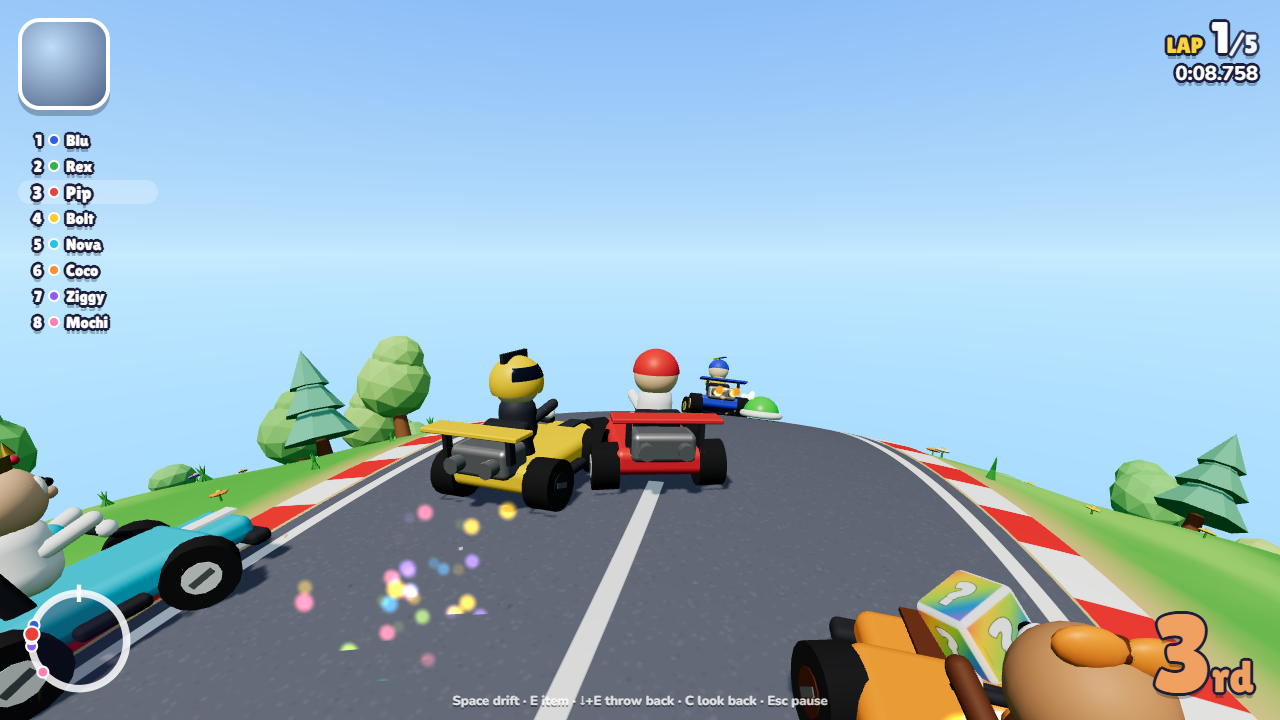
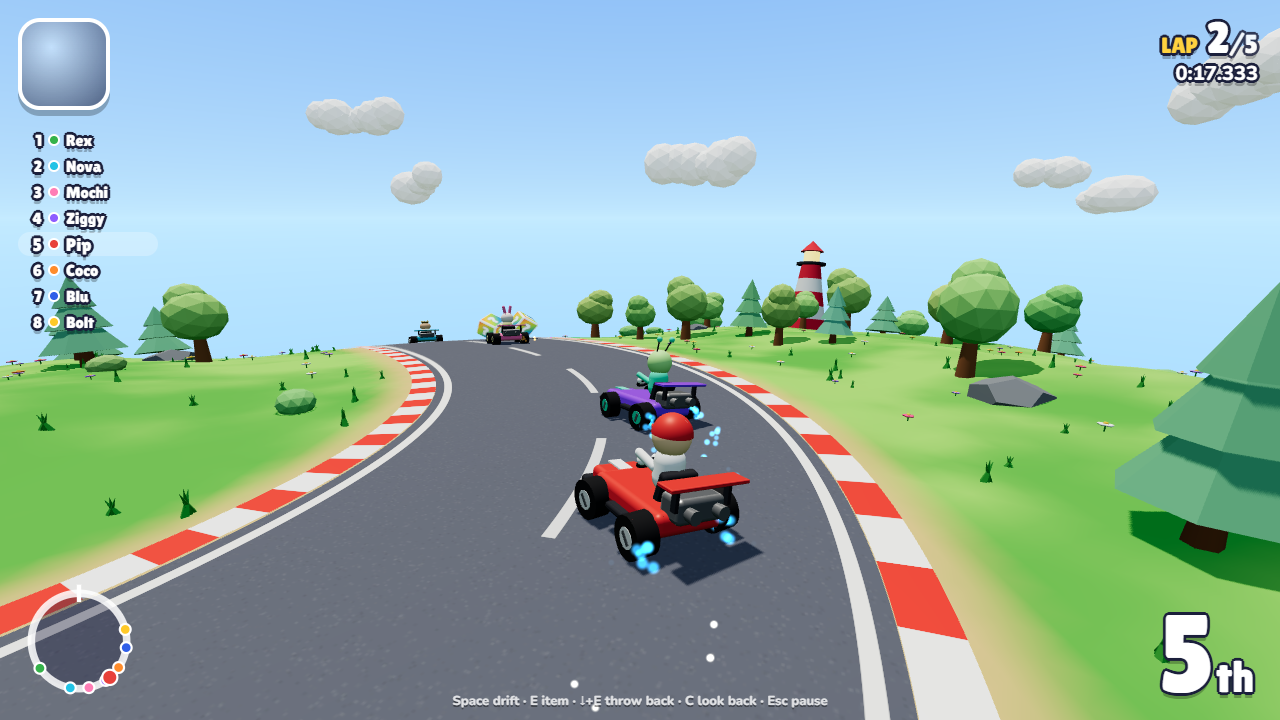
Unroll the planet around the player so you can see the road ahead
On a radius-28 planet a chase camera could only see ~13 units of ground,
about half a second at racing speed. The simulation still runs on the tiny
planet, but while racing a vertex shader remaps the world onto a sphere 7x
larger that touches the real one under the player, preserving distances along
the ground. Normals are rotated to match, far-side geometry is sunk below the
horizon, and shadows stay in true space so they remain attached. The camera
sits a little higher and further back, and the intro blends from the tiny
planet into the unrolled view.

diff --git a/src/render/WorldBend.ts b/src/render/WorldBend.ts
@@ -1,0 +1,171 @@
+import * as THREE from 'three';
+
+/**
+ * "Unrolls" the tiny planet around the player at render time.
+ *
+ * A planet this small curves away so quickly that a chase camera sees only a few metres of road.
+ * The simulation stays on the real, tiny sphere; only the vertex shader remaps every point onto a
+ * sphere `factor` times larger, touching the real one at `anchor`. Distances along the ground are
+ * preserved (a point s metres away stays s metres away), so the road simply curves `factor` times
+ * more gently. Far-side geometry, which would otherwise be stretched around the antipode, is sunk
+ * out of sight well beyond the horizon.
+ *
+ * Shadow maps are rendered with three's internal depth materials, which are not patched, so
+ * shadows are computed in true space and looked up with the true world position: they stay glued
+ * to the objects that cast them.
+ */
+export class WorldBend {
+  readonly uniforms = {
+    bendAnchor: { value: new THREE.Vector3(0, 1, 0) },
+    bendRadius: { value: 1 },
+    bendFactor: { value: 1 },
+  };
+  private readonly patched = new WeakSet<THREE.Material>();
+
+  constructor(radius: number) {
+    this.uniforms.bendRadius.value = radius;
+  }
+
+  get factor(): number {
+    return this.uniforms.bendFactor.value;
+  }
+
+  set factor(value: number) {
+    this.uniforms.bendFactor.value = Math.max(1, value);
+  }
+
+  get anchor(): THREE.Vector3 {
+    return this.uniforms.bendAnchor.value;
+  }
+
+  /**
+   * Patches every material in the scene that hasn't been patched yet. Bent objects can appear
+   * where their true bounds say they're off-screen, so frustum culling is disabled for them.
+   */
+  apply(root: THREE.Object3D): void {
+    root.traverse((object) => {
+      if (object.userData.noBend) return;
+      const material = (object as THREE.Mesh).material as THREE.Material | THREE.Material[] | undefined;
+      if (!material) return;
+      object.frustumCulled = false;
+      for (const m of Array.isArray(material) ? material : [material]) this.patch(m);
+    });
+  }
+
+  /** CPU version of the shader warp, for placing the camera in bent space. */
+  bendPoint(p: THREE.Vector3, out: THREE.Vector3): THREE.Vector3 {
+    const u = this.anchor;
+    const R = this.uniforms.bendRadius.value;
+    const k = this.factor;
+    const r = p.length();
+    if (k <= 1.0001 || r < 1e-6) return out.copy(p);
+    const n = tmpN.copy(p).divideScalar(r);
+    const sinPhi = tmpC.crossVectors(n, u).length();
+    const phi = Math.atan2(sinPhi, n.dot(u));
+    const tangent = tmpT.copy(n).addScaledVector(u, -Math.cos(phi));
+    if (tangent.lengthSq() < 1e-12) tangent.set(0, 0, 0);
+    else tangent.normalize();
+    const bentRadius = R * k;
+    const bentPhi = phi / k;
+    const height = r - R;
+    return out
+      .copy(u)
+      .multiplyScalar(R - bentRadius)
+      .addScaledVector(u, Math.cos(bentPhi) * (bentRadius + height))
+      .addScaledVector(tangent, Math.sin(bentPhi) * (bentRadius + height));
+  }
+
+  private patch(material: THREE.Material): void {
+    if (this.patched.has(material)) return;
+    this.patched.add(material);
+    if (material instanceof THREE.ShaderMaterial) {
+      // Custom shaders opt in by calling bendPoint() themselves (see Particles).
+      if (material.userData.bendable) Object.assign(material.uniforms, this.uniforms);
+      return;
+    }
+    const previous = material.onBeforeCompile;
+    material.onBeforeCompile = (shader, renderer) => {
+      previous.call(material, shader, renderer);
+      Object.assign(shader.uniforms, this.uniforms);
+      shader.vertexShader = BEND_GLSL + '\n' + shader.vertexShader
+        .replace('#include <defaultnormal_vertex>', `#include <defaultnormal_vertex>\n${BEND_NORMAL}`)
+        .replace('#include <project_vertex>', BEND_PROJECT);
+    };
+    const key = material.customProgramCacheKey.bind(material);
+    material.customProgramCacheKey = () => `${key()}|bend`;
+    material.needsUpdate = true;
+  }
+}
+
+const tmpN = new THREE.Vector3();
+const tmpC = new THREE.Vector3();
+const tmpT = new THREE.Vector3();
+
+/** Shared GLSL: warp a world-space point, and rotate a world-space direction to match. */
+export const BEND_GLSL = /* glsl */ `
+  uniform vec3 bendAnchor;
+  uniform float bendRadius;
+  uniform float bendFactor;
+
+  // Returns the bent point; writes the rotation axis/angle that carries directions along.
+  vec3 bendPointFull(vec3 p, out vec3 axis, out float delta) {
+    axis = vec3(0.0);
+    delta = 0.0;
+    float r = length(p);
+    if (bendFactor <= 1.0001 || r < 1e-5) return p;
+    vec3 n = p / r;
+    vec3 u = bendAnchor;
+    vec3 c = cross(u, n);
+    float phi = atan(length(c), dot(n, u));
+    vec3 t = n - u * cos(phi);
+    float tl = length(t);
+    t = tl > 1e-6 ? t / tl : vec3(0.0);
+    float bentRadius = bendRadius * bendFactor;
+    float bentPhi = phi / bendFactor;
+    // Sink the far side of the planet out of sight instead of smearing it around the antipode.
+    float height = mix(r - bendRadius, -bendRadius, smoothstep(2.1, 2.7, phi));
+    axis = length(c) > 1e-6 ? normalize(c) : vec3(0.0);
+    delta = bentPhi - phi;
+    return u * (bendRadius - bentRadius) + (u * cos(bentPhi) + t * sin(bentPhi)) * (bentRadius + height);
+  }
+
+  vec3 bendPoint(vec3 p) {
+    vec3 axis;
+    float delta;
+    return bendPointFull(p, axis, delta);
+  }
+
+  vec3 bendRotate(vec3 v, vec3 axis, float angle) {
+    // Rodrigues' rotation formula.
+    float c = cos(angle);
+    float s = sin(angle);
+    return v * c + cross(axis, v) * s + axis * dot(axis, v) * (1.0 - c);
+  }
+`;
+
+const BEND_NORMAL = /* glsl */ `
+  {
+    vec4 bendLocal = vec4(position, 1.0);
+    #ifdef USE_INSTANCING
+      bendLocal = instanceMatrix * bendLocal;
+    #endif
+    vec3 bendAxis;
+    float bendDelta;
+    bendPointFull((modelMatrix * bendLocal).xyz, bendAxis, bendDelta);
+    mat3 viewRotation = mat3(viewMatrix);
+    vec3 worldNormal = transpose(viewRotation) * transformedNormal;
+    transformedNormal = viewRotation * bendRotate(worldNormal, bendAxis, bendDelta);
+  }
+`;
+
+const BEND_PROJECT = /* glsl */ `
+  vec4 mvPosition = vec4(transformed, 1.0);
+  #ifdef USE_BATCHING
+    mvPosition = batchingMatrix * mvPosition;
+  #endif
+  #ifdef USE_INSTANCING
+    mvPosition = instanceMatrix * mvPosition;
+  #endif
+  mvPosition = viewMatrix * vec4(bendPoint((modelMatrix * mvPosition).xyz), 1.0);
+  gl_Position = projectionMatrix * mvPosition;
+`;

diff --git a/src/game/Game.ts b/src/game/Game.ts
@@ -7,6 +7,7 @@ import { ItemModels } from '../render/itemModels';
 import { renderPortraits } from '../render/portraits';
 import { RaceView } from '../render/RaceView';
 import { Sky } from '../render/Sky';
+import { WorldBend } from '../render/WorldBend';
 import { WorldView } from '../render/WorldView';
 import { CHARACTERS } from '../sim/characters';
 import type { RaceEvent } from '../sim/events';
@@ -21,6 +22,8 @@ type Mode = 'menu' | 'intro' | 'racing' | 'paused' | 'finishing' | 'results';
 const MAX_STEPS_PER_FRAME = 8;
 const FINISH_CELEBRATION = 3.5;
 const WRONG_WAY_DELAY = 1.2;
+/** How much flatter the planet looks while racing (see WorldBend). */
+const RACING_BEND = 7;
 
 const tmpDir = new THREE.Vector3();
 const tmpSide = new THREE.Vector3();
@@ -35,6 +38,7 @@ export class Game {
   private readonly sun = new THREE.DirectionalLight(0xfff4e0, 2.6);
   private readonly hemisphere = new THREE.HemisphereLight(0xcfeaff, 0x4d7a35, 1.3);
   private readonly circuit: Circuit;
+  private readonly bend: WorldBend;
   private readonly worldView: WorldView;
   private readonly itemModels = new ItemModels();
   private readonly input = new Input(window);
@@ -68,7 +72,8 @@ export class Game {
     container.appendChild(this.renderer.domElement);
 
     this.circuit = createCircuit();
-    this.rig = new CameraRig(window.innerWidth / window.innerHeight, this.circuit.track.radius);
+    this.bend = new WorldBend(this.circuit.track.radius);
+    this.rig = new CameraRig(window.innerWidth / window.innerHeight, this.circuit.track.radius, this.bend);
     this.worldView = new WorldView(this.circuit);
     this.scene.add(this.sky.mesh, this.worldView.group, this.hemisphere, this.sun, this.sun.target);
     this.sun.castShadow = true;
@@ -110,7 +115,9 @@ export class Game {
     if (this.input.wasPressed('mute')) this.audio.toggleMute();
 
     this.updateMode(dt);
+    this.updateBend();
     this.updateViews(dt);
+    this.bend.apply(this.scene);
     this.renderer.render(this.scene, this.rig.camera);
     this.input.endFrame();
   }
@@ -228,6 +235,18 @@ export class Game {
       default:
         break;
     }
+  }
+
+  /** Tiny planet in the menu; unrolled around the player while racing, blending in during the fly-in. */
+  private updateBend(): void {
+    const player = this.race.player;
+    if (!player || this.mode === 'menu') {
+      this.bend.factor = 1;
+      return;
+    }
+    const t = this.rig.introProgress;
+    this.bend.factor = 1 + (RACING_BEND - 1) * t * t;
+    this.bend.anchor.copy(player.up);
   }
 
   private updateViews(dt: number): void {

diff --git a/src/render/CameraRig.ts b/src/render/CameraRig.ts
@@ -1,12 +1,13 @@
 import * as THREE from 'three';
 import { clamp, damp, dampVector } from '../core/math';
 import type { Kart } from '../sim/Kart';
+import type { WorldBend } from './WorldBend';
 
 export type CameraMode = 'orbit' | 'chase' | 'intro' | 'finish';
 
-const CHASE_DISTANCE = 6.4;
-const CHASE_HEIGHT = 2.9;
-const LOOK_AHEAD = 3.5;
+const CHASE_DISTANCE = 7.2;
+const CHASE_HEIGHT = 3.4;
+const LOOK_AHEAD = 5;
 const BASE_FOV = 68;
 const INTRO_DURATION = 3;
 
@@ -15,6 +16,7 @@ const tmpLook = new THREE.Vector3();
 const tmpUp = new THREE.Vector3();
 const tmpForward = new THREE.Vector3();
 const tmpRight = new THREE.Vector3();
+const tmpBent = new THREE.Vector3();
 
 /**
  * Drives the camera: a slow planet orbit for menus, a fly-in intro, a springy chase cam while
@@ -36,6 +38,7 @@ export class CameraRig {
   constructor(
     aspect: number,
     private readonly planetRadius: number,
+    private readonly bend: WorldBend,
   ) {
     this.camera = new THREE.PerspectiveCamera(BASE_FOV, aspect, 0.1, 1200);
   }
@@ -55,6 +58,11 @@ export class CameraRig {
 
   get introFinished(): boolean {
     return this.mode !== 'intro' || this.modeTime >= INTRO_DURATION;
+  }
+
+  /** 0 → 1 over the fly-in; 1 in every other mode. */
+  get introProgress(): number {
+    return this.mode === 'intro' ? clamp(this.modeTime / INTRO_DURATION, 0, 1) : 1;
   }
 
   addShake(amount: number): void {
@@ -124,8 +132,12 @@ export class CameraRig {
     this.apply();
   }
 
+  /**
+   * The rig works in true (simulation) space; the result is carried into the bent render space so
+   * the camera sits at the right height above the ground it actually sees.
+   */
   private apply(): void {
-    this.camera.position.copy(this.position);
+    this.bend.bendPoint(this.position, this.camera.position);
     if (this.shake > 0.01) {
       const s = this.shake * 0.25;
       this.camera.position.x += (Math.random() - 0.5) * s;
@@ -133,7 +145,7 @@ export class CameraRig {
       this.camera.position.z += (Math.random() - 0.5) * s;
     }
     this.camera.up.copy(this.up);
-    this.camera.lookAt(this.look);
+    this.camera.lookAt(this.bend.bendPoint(this.look, tmpBent));
     if (Math.abs(this.camera.fov - this.fov) > 0.01) {
       this.camera.fov = this.fov;
       this.camera.updateProjectionMatrix();

diff --git a/src/render/Particles.ts b/src/render/Particles.ts
@@ -1,4 +1,5 @@
 import * as THREE from 'three';
+import { BEND_GLSL } from './WorldBend';
 
 export interface ParticleOptions {
   capacity: number;
@@ -10,6 +11,7 @@ export interface ParticleOptions {
 }
 
 const vertexShader = /* glsl */ `
+  ${BEND_GLSL}
   attribute float size;
   attribute float alpha;
   attribute vec3 tint;
@@ -19,7 +21,7 @@ const vertexShader = /* glsl */ `
   void main() {
     vTint = tint;
     vAlpha = alpha;
-    vec4 mv = modelViewMatrix * vec4(position, 1.0);
+    vec4 mv = viewMatrix * vec4(bendPoint((modelMatrix * vec4(position, 1.0)).xyz), 1.0);
     gl_PointSize = size * pixelScale / -mv.z;
     gl_Position = projectionMatrix * mv;
   }
@@ -73,6 +75,7 @@ export class ParticleSystem {
       depthWrite: false,
       blending: options.additive ? THREE.AdditiveBlending : THREE.NormalBlending,
     });
+    this.material.userData.bendable = true;
     this.points = new THREE.Points(this.geometry, this.material);
     this.points.frustumCulled = false;
   }

diff --git a/src/render/Sky.ts b/src/render/Sky.ts
@@ -52,6 +52,7 @@ export class Sky {
     this.mesh = new THREE.Mesh(new THREE.SphereGeometry(500, 32, 16), material);
     this.mesh.frustumCulled = false;
     this.mesh.renderOrder = -1;
+    this.mesh.userData.noBend = true;
   }
 
   update(camera: THREE.Camera, up: THREE.Vector3, sunDirection: THREE.Vector3): void {

diff --git a/README.md b/README.md
@@ -75,12 +75,21 @@ src/
     AIDriver.ts      Pure-pursuit AI: racing lines, drifting, item use, recovery
     Race.ts          Rules: countdown, laps, ranking, items, collisions, rubber-banding
     events.ts        Everything the sim reports (audio/UI/effects listen to these)
-  render/          three.js views of the simulation (planet, karts, items, particles, camera)
+  render/          three.js views of the simulation (planet, karts, items, particles, camera,
+                   and the WorldBend shader that flattens the view while racing)
   audio/           Web Audio synth, music sequencer and sound effects
   ui/              HUD, menus and overlays (plain DOM)
   input/           Keyboard and gamepad
   game/Game.ts     The main loop and screen flow
 ```
+
+**Seeing the road on a tiny planet.** A planet this small curves away so fast that a normal
+chase camera only sees a few metres of track. So while racing, a vertex shader
+(`render/WorldBend.ts`) "unrolls" the planet around you: every point is remapped onto a sphere
+7× larger that touches the real one under your kart, keeping distances along the ground intact.
+The simulation still happens on the tiny planet (lap times, shells circling the world, the view
+from the menu); only the picture is flatter. The intro fly-in blends from the real planet to the
+unrolled view. Tweak `RACING_BEND` in `game/Game.ts` to change how flat it looks.
 
 The simulation runs at a fixed 120 Hz and knows nothing about rendering. Karts live on the
 surface of a sphere: every step they are moved along a great circle and their direction
